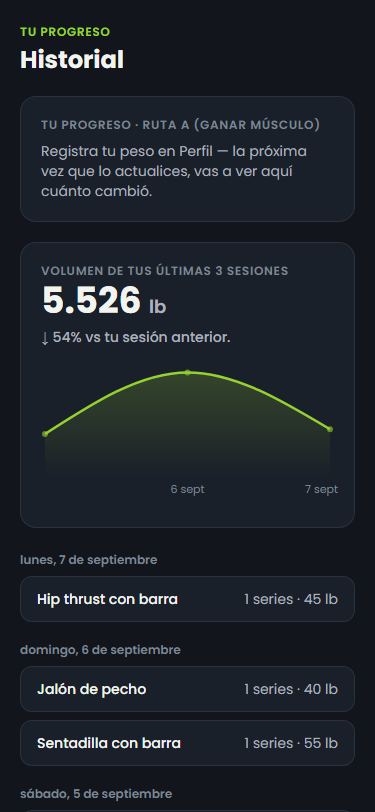
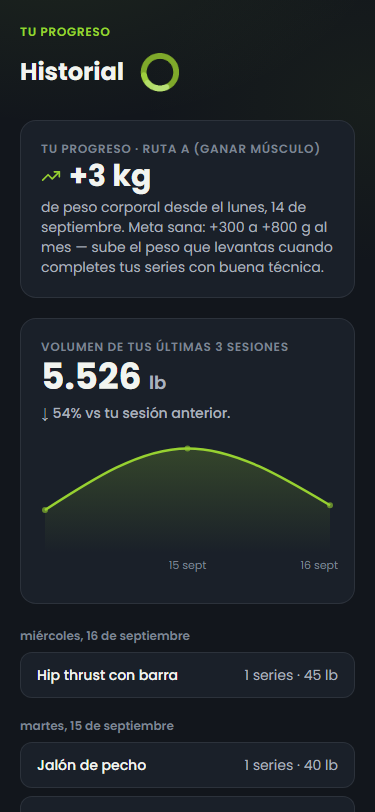
fix: recaptura los 4 screenshots del carrusel de la landing
Mostraban la rutina "REAL FISIC" retirada ayer (calentamiento y ejercicios
viejos) tras implementar la Ruta Intermedio. Se actualizo
scripts/capturar-frames-carrusel.mjs: el Progreso semilla no traia
nivel/meta/medidas corporales (el tipo real los exige hace semanas) y la
clave de sessionStorage para saltar el saludo estaba mal. De paso se
corrigio que el peso semilla mostraba una perdida de peso en la Ruta A
(ganar musculo), contradiciendo la meta del propio screenshot.

diff --git a/ESTADO.md b/ESTADO.md
@@ -1,6 +1,7 @@
 # ESTADO — GymEvo (nombre tentativo: Método Cero)
 Última actualización: 2026-09-16 | Sesión actual: 10 (en curso)
 
+⏸ CHECKPOINT — Los 4 screenshots del carrusel "La app por dentro" de la landing quedaron desactualizados de nuevo (16/09/2026): mostraban la rutina "REAL FISIC" vieja (retirada ayer al implementar Ruta Intermedio) y el calentamiento antiguo. Se re-capturaron con `scripts/capturar-frames-carrusel.mjs` — el usuario dio permiso explícito para correrlo (usa Playwright/Chromium en automático, sin navegación interactiva de por medio, distinto de la regla de "nunca abrir Chrome" que aplica al flujo de verificación manual). Se actualizó el script: `PROGRESO_APP` no tenía `nivel`/`meta`/medidas corporales (el `Progreso` real los exige desde hace semanas, el script nunca se había puesto al día) y la clave de sessionStorage para saltar el saludo estaba mal (`gymevo_saludo_visto` en vez de `gymevo_saludo_visto_dia`, con el día del plan como valor, no una fecha). De paso se corrigió que el peso semilla mostraba "-2 kg" en Ruta A (ganar músculo) — contradecía la meta del propio screenshot; ahora es pesoInicialKg=75/pesoKg=78 → "+3 kg". Rutas temporales `/dev-preview-plandeldia` y `/dev-preview-historial` creadas y borradas en la misma pasada (no quedaron en el build). `tsc` ✓ · `build` ✓ · las 4 imágenes revisadas una por una: onboarding, rescate (Día 1 completo con los 7 ejercicios de Pierna completa), plan del día (calentamiento nuevo, racha, fecha real) e historial (+3 kg, volumen, logs con ids vigentes).
 ⏸ CHECKPOINT — Diferenciación real Principiante/Intermedio (16/09/2026): tras investigar apps reales (Fitbod, Hevy, Strong) y evidencia de ciencia del ejercicio, se presentaron 3 opciones al usuario (autorregulación RIR, analítica de progreso, variación de ejercicios) — eligió combinar A+B. Implementado sin tocar la lógica de rutinas de la sesión anterior:
 - **Opción A — Autorregulación (RIR)**: `lib/routine.ts` — `RegistroLog` ahora acepta un `rir?` opcional (0-4, Repeticiones en Reserva). Nueva función `sugerenciaPeso(progreso, ejercicioId)`: si el RIR de la última vez fue 3-4 ("fácil"), sugiere subir el peso un incremento fijo (+2.5kg/+5lb); si fue 0-1 ("duro"/"al fallo"), sugiere mantenerlo. `app/app/page.tsx` — SOLO Ruta Intermedio ve 4 chips ("Fácil"/"Normal"/"Duro"/"Al fallo") antes de cada serie y la línea de sugerencia bajo "¿Cuánto usé la última vez?"; opcional (si no se toca ningún chip, el log se guarda igual, sin `rir`, no bloquea nada).
 - **Opción B — Progreso avanzado**: `lib/analiticaAvanzada.ts` (nuevo, funciones puras) — `estimado1RM` (fórmula de Epley), `volumenPorGrupoMuscular` (última semana), `progresionPorEjercicio` (compara 1RM estimado actual vs. el primer registro, máximo 4 ejercicios), `recordMasReciente`. `app/app/historial/page.tsx` — sección nueva "Tu progreso avanzado" SOLO Ruta Intermedio: celebración de récord + barras de volumen por músculo + lista de progresión de fuerza con %. Principiante sigue viendo Historial exactamente igual que antes (constancia/racha, sin números de fuerza).

diff --git a/FICHA-ARTE.md b/FICHA-ARTE.md
@@ -23,7 +23,7 @@
 - Motion signature: sin cambios (ease-out corto, bounce 0.05, stagger 60-80ms) — la energía nueva la dan el color y la tipografía, no animaciones más agresivas
 
 ## Pendiente de esta redecisión (anotado para no declarar "terminado" antes de tiempo)
-- Los 4 screenshots reales de la landing (`public/screenshots/frame-*.png`, sección "La app por dentro") se capturaron con la identidad ANTERIOR (clara) — quedan desactualizados visualmente contra el nuevo fondo oscuro. Hay que re-capturarlos con la app ya en el nuevo tema antes de dar la landing por completamente consistente.
+- ~~Los 4 screenshots reales de la landing...~~ RESUELTO 16/09/2026: re-capturados con `scripts/capturar-frames-carrusel.mjs` (actualizado para la nueva rutina de 6 días y el `Progreso` completo) — ya muestran la identidad oscura, la rutina de Principiante vigente y el calentamiento nuevo. Ver ESTADO.md.
 - Todas las pantallas se verificaron por CASCADA de tokens CSS (arquitectura ya 100% var(...), confirmado por auditoría de grep — cero hex hardcodeados en `.tsx`), no una por una con sesión autenticada real. Antes de vender, correr el TEST DE FIDELIDAD (screenshot a 375px) en las 4 pantallas del dinero + panel de administrador cuando se construya.
 - El panel de administrador (aún no construido) debe nacer YA con este brand kit — no heredar el anterior.
 
